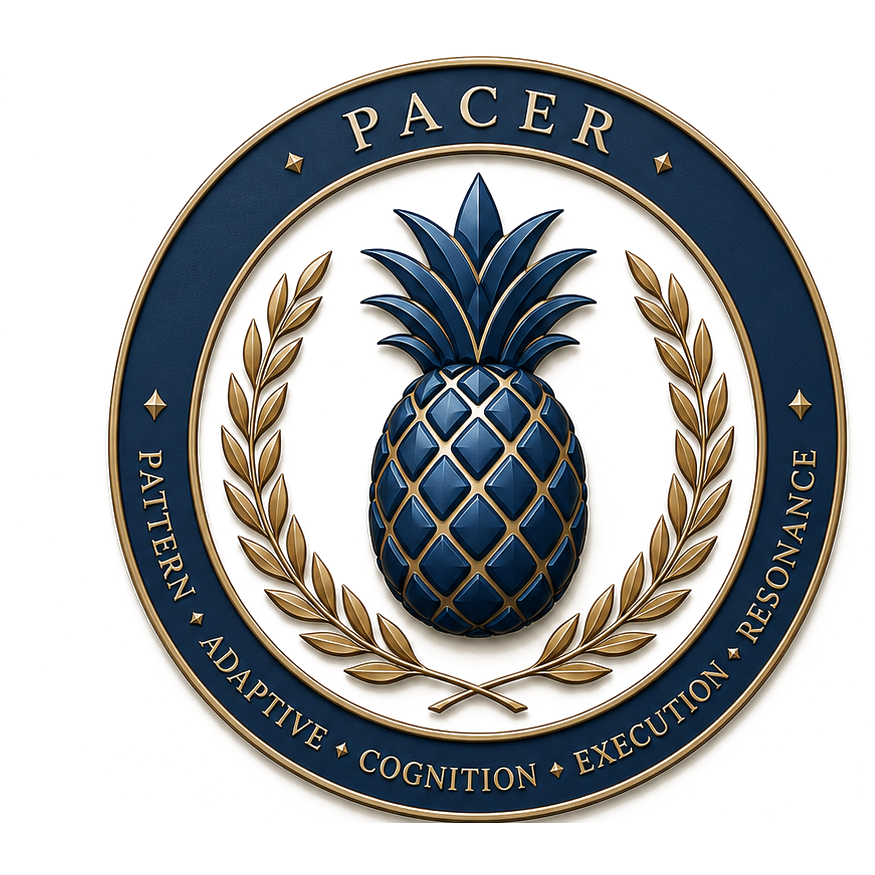
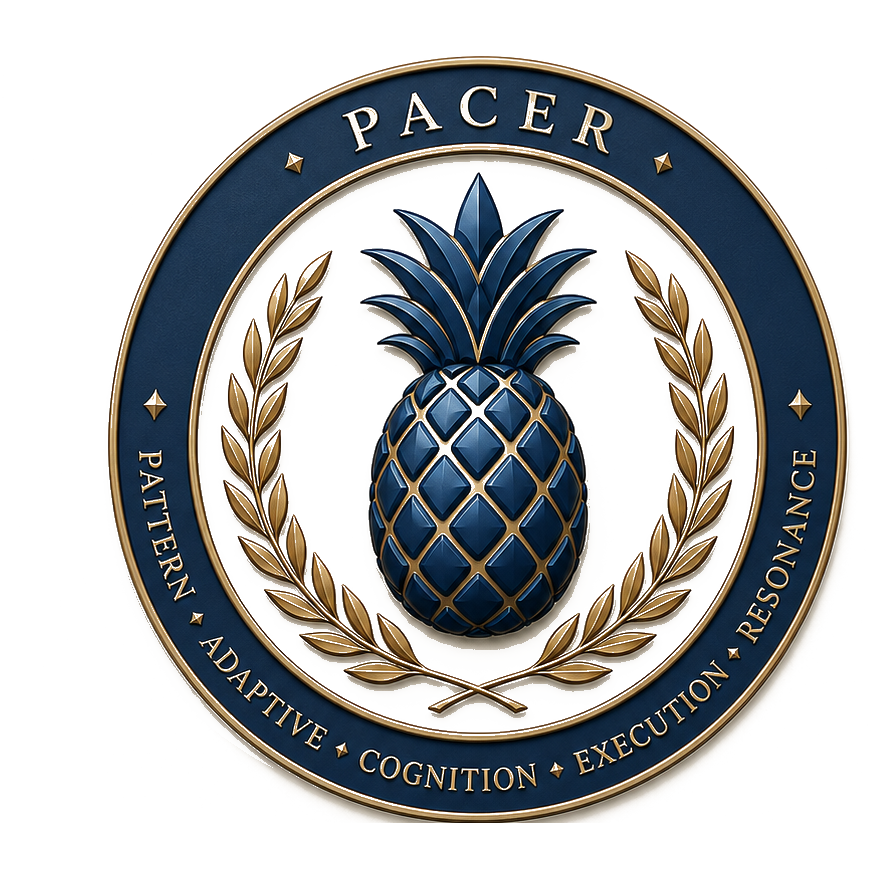
Seal center transparency + seal 350px + doctrine text confidence
Seal center: made interior cream field ~12% opacity so the constellation
and atmospheric layers bleed through the crest. The seal now inhabits
the same visual plane as the campus rather than sitting above it.

Seal size: 300px → 350px desktop (+17%), 200px → 230px mobile (+15%).
At this scale the outer ring commands the space between the constellation
and the mission statement — center of gravity, not logo.

Mission statement: var(--text-3) → var(--text-1). In dark mode text-3
is #2d3a50, nearly invisible against the dark background. text-1 is
#8ea3c3 — constitutional inscription weight, readable without shouting.

https://claude.ai/code/session_01E3zRES7L7b1sft1nD9jqmq

diff --git a/src/components/PACERHome.jsx b/src/components/PACERHome.jsx
@@ -182,8 +182,8 @@ export default function PACERHome({ onEnter, observationCount, onMorningBrief, c
             src="/pacer-seal.png"
             alt="PACER"
             style={{
-              width: isMobile ? '200px' : '300px',
-              height: isMobile ? '200px' : '300px',
+              width: isMobile ? '230px' : '350px',
+              height: isMobile ? '230px' : '350px',
               objectFit: 'contain',
               opacity: 0.90,
             }}
@@ -191,7 +191,7 @@ export default function PACERHome({ onEnter, observationCount, onMorningBrief, c
         </div>
 
         <p style={{
-          color: 'var(--text-3)', fontSize: '13px', lineHeight: 1.8,
+          color: 'var(--text-1)', fontSize: '13px', lineHeight: 1.8,
           fontStyle: 'italic', marginBottom: '40px',
           marginTop: '8px',
         }}>